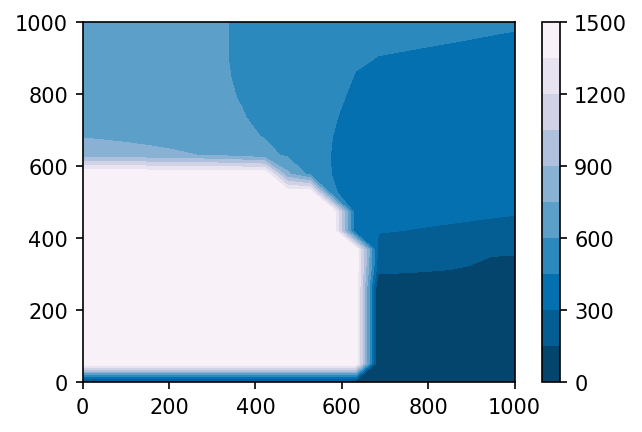
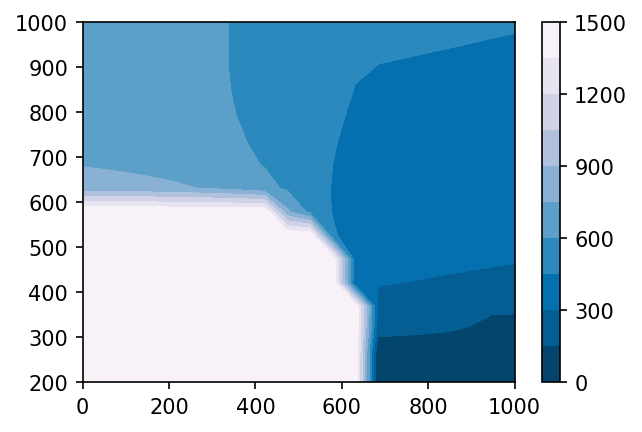
lim

diff --git a/microstim/plot/functions/cell/heatmap.py b/microstim/plot/functions/cell/heatmap.py
@@ -29,6 +29,7 @@ heatmap_capped = np.clip(heatmap, 0, 1500)
 fig = plt.figure(num=8,figsize = (4.5,3), facecolor = 'w', dpi = 150, edgecolor = 'w')
 fig.clf()
 ax = plt.axes([0.15, 0.18, 0.8, 0.8])
+ax.set_ylim(200, 1000)
 cs = ax.contourf(inh_RANGE, Wei_RANGE, heatmap_capped.T, cmap=cm.PuBu_r, vmin=0, vmax=1500, levels=10)
 fig.colorbar(cs)
 
